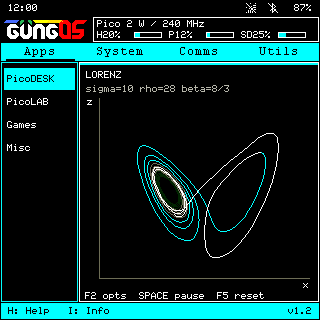
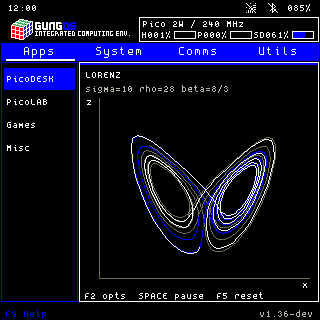
Refresh the Lorenz desktop preview and introduce picosolve

diff --git a/tools/capture-desktop-preview.py b/tools/capture-desktop-preview.py
@@ -1,0 +1,65 @@
+#!/usr/bin/env python3
+"""Capture the current desktop/Lorenz framebuffer using an isolated simulator SD."""
+import argparse
+from pathlib import Path
+import subprocess
+import tempfile
+from PIL import Image
+
+ROOT = Path(__file__).resolve().parents[1]
+CAPTURE = '''import os,sys
+root=os.getcwd()
+for path in ('src/MicroPython','simulator/hardware','builds/MicroPython/apps_unfrozen'):
+    sys.path.insert(0,root+'/'+path)
+import sim_runtime
+folder=sys.argv[1]
+sim_runtime.configure(root,folder+'/sd',root+'/builds/MicroPython/apps_unfrozen',1,
+                      'picocalc-pico2w',0,True,False,False,False,'',
+                      _network_mode='offline',_audio_mode='silent',_sd_profile='clean')
+from picoware.system.view_manager import ViewManager
+from picoware.system.settings import Settings
+from picoware.applications import desktop
+from picoware.system.buttons import BUTTON_NONE
+import picoware_southbridge as power
+class Clock:
+    def datetime(self):return (2026,11,6,4,12,0,0,0)
+    def deinit(self):pass
+vm=ViewManager();vm._wifi=None
+vm.time._rtc=Clock();vm.time._is_set=True
+power.set_battery_percentage(85);power.set_battery_charging(False)
+# These are normal Lorenz options; omit host timing statistics in a still image.
+assert Settings(vm.storage).update({'screensaver':'Lorenz',
+    'lorenz':{'detail':3,'points':1536,'fps':8,'stats':False}})
+assert desktop.start(vm)
+home=desktop._dashboard
+home.widget.load('Lorenz');assert home.widget.module,home.widget.error
+for _ in range(int(sys.argv[2])):
+    home.widget.next_frame=0;home.widget.module._next=0
+    vm._button=BUTTON_NONE;home.update()
+assert home.widget.module._count==1536
+home.status_bar.sample(force=True);home.draw()
+assert sim_runtime.lcd_screenshot(folder+'/desktop.bmp')
+desktop.stop(vm)
+'''
+
+
+def main():
+    parser = argparse.ArgumentParser(description=__doc__)
+    parser.add_argument('--micropython', type=Path, default=ROOT / 'builds/MicroPython/desktop/micropython')
+    parser.add_argument('--output', type=Path, default=ROOT / 'assets/screenshots/desktop.png')
+    parser.add_argument('--frames', type=int, default=160)
+    args = parser.parse_args()
+    if args.frames < 96:
+        parser.error('Use at least 96 frames to fill the configured Lorenz trail')
+    with tempfile.TemporaryDirectory(prefix='gungos-desktop-preview-') as folder:
+        subprocess.run([str(args.micropython.resolve()), '-X', 'heapsize=16M', '-c', CAPTURE,
+                        folder, str(args.frames)], cwd=ROOT, check=True)
+        args.output.parent.mkdir(parents=True, exist_ok=True)
+        with Image.open(Path(folder) / 'desktop.bmp') as capture:
+            assert capture.size == (320, 320), 'Unexpected native display size'
+            capture.save(args.output)
+    print('Saved current desktop with Lorenz: ' + str(args.output))
+
+
+if __name__ == '__main__':
+    main()

diff --git a/guides/PicoSolve.md b/guides/PicoSolve.md
@@ -1,0 +1,84 @@
+# picosolve
+
+picosolve is GungOS's built-in C module for structural solving, circuit analysis,
+repeated formula evaluation and plot geometry. The applications provide Python
+editors and displays; picosolve performs the selected numerical work underneath.
+It is included in the custom firmware and host simulator as `import picosolve`.
+
+## Where it is used
+
+| Application | picosolve's role |
+|---|---|
+| BeamView | Euler–Bernoulli beams and 2D plane frames: displacements, support reactions, member forces and diagrams |
+| PicoSpice | Circuit operating points, DC sweeps and transient traces using modified nodal analysis |
+| Graph, Graph3D and Grapher | Supported expression evaluation, implicit contours and surface/isosurface geometry |
+| Scientific calculator | Supported real expressions used in integration and equation solving; the Python numerical routines manage the overall calculation |
+
+ulab provides separate array/numerical operations, while the native gfx module
+handles drawing. Individual engineering apps may also use their own Python
+models; picosolve is not the backend for every PicoLAB calculation.
+
+## A small beam example
+
+Run this in the GungOS device REPL or its custom desktop MicroPython interpreter.
+It models a 2 m simply supported beam under a uniform downward load of 1,000 N/m.
+The structural API uses SI units: m, N, N·m, Pa and m⁴. Indices start at zero.
+
+```python
+import picosolve as ps
+
+b = ps.Beam(nodes=2, elements=1, sections=1, loads=1, cases=1)
+try:
+    b.section(0, 210e9, 8.333e-6)  # E [Pa], I [m^4]
+    b.node(0, 0.0)
+    b.node(1, 2.0)
+    b.element(0, 0, 1)            # element 0 joins nodes 0 and 1
+    b.line(0, 0, 0.0, 2.0, -1000.0)  # case, element, start/end, N/m
+    b.support(0, ps.UY)           # restrain vertical movement
+    b.support(1, ps.UY)           # rotations remain free
+    b.solve()
+    print(b.reaction(0))          # (1000.0, 0.0): force [N], moment [N*m]
+    print(b.reaction(1))          # (1000.0, 0.0)
+    print(b.at(0, 1.0))           # shear, moment, slope, deflection at midspan
+    print(b.info())               # memory, precision and conditioning information
+finally:
+    b.free()
+```
+
+The midspan moment is approximately **500 N·m** and vertical deflection is
+**−0.119 mm** for this example. Positive vertical force points upward;
+the diagram moment convention is sagging positive. `ps.Frame` adds axial
+movement/force for members in the x–y plane.
+
+## Precision, memory and limits
+
+- GungOS Python inputs and returned floats are float32. The beam/frame solver
+  supports double factorization and single factorization with double-precision
+  refinement; `AUTO` chooses a mode and can retry in double when required.
+  `info()` reports the precision used. Formula evaluation uses float32 rules;
+  circuit calculations combine double arithmetic with float32 device-model
+  transcendental functions. Precision is not uniformly double throughout.
+- Model storage is sized before solving. The core solve uses caller-owned
+  memory blocks. Beam/frame solving exposes progress/cancellation and can run
+  on the second core; circuits can advance in cooperative time slices. See the
+  developer reference for the corresponding interfaces.
+- Beam/frame models use linear, small-deformation Euler–Bernoulli theory.
+  Shear-deformable beams, nonlinear structures and 3D frame analysis are outside
+  this implementation. PicoSpice has a bounded set of device models; AC analysis
+  is not implemented. Formula supports a restricted expression language, with
+  rejection/fallback for unsupported cases.
+- Host tests check analytical results, equilibrium, error handling and Python
+  parity. Model size, latency and available heap still require device checks;
+  a successfully solved model also depends on appropriate inputs and assumptions.
+
+## Source and further reading
+
+The [developer reference](../src/MicroPython/picosolve/README.md) covers the API,
+solver algorithms, supported circuit devices, precision selection and memory.
+Source lives under `src/MicroPython/picosolve/`, with MicroPython bindings in
+`mp/`, structural/circuit models in `fe/`, and numerical routines in `core/`.
+
+Run native checks with `sh src/MicroPython/picosolve/tests/run-tests.sh`, or
+use `python3 tools/check-source.py --build` for the complete source checks.
+See [BeamView](BeamLab.md), [PicoSpice](PicoSpice.md), [Grapher](Grapher.md) and
+the [scientific calculator](ScientificCalculator.md) for their user interfaces.

diff --git a/README.md b/README.md
@@ -5,9 +5,10 @@
 A handheld engineering computer for **PicoCalc with Raspberry Pi Pico 2 W**.
 By Cem Gungor, based on [Picoware by jblanked](https://github.com/jblanked/Picoware).
 
-![GungOS desktop in the simulator](assets/screenshots/desktop.png)
+![Current GungOS desktop with the Lorenz widget](assets/screenshots/desktop.png)
 
-*Simulator preview; status and resource figures are simulated.*
+*Current 1.36-dev desktop with the Lorenz widget, captured from the simulator.
+Status and resource figures are simulated.*
 
 ## Development status
 
@@ -33,6 +34,24 @@ changes and the [publication record](guides/PublicationReadiness.md) for validat
 This source profile targets PicoCalc with **Pico 2 W**. Other Picoware boards,
 its app store/OTA updater and several other upstream features are outside this
 profile; arbitrary upstream applications are not guaranteed compatible.
+
+## picosolve: the numerical engine
+
+picosolve is the C module built into GungOS for selected engineering and plotting
+calculations. Python applications describe a model or expression, call the native
+module, and present its results.
+
+| Used by | What it supplies |
+|---|---|
+| BeamView | Beam and 2D frame solutions, reactions, forces and deflection diagrams |
+| PicoSpice | Circuit operating points, DC sweeps and transient analysis |
+| Grapher / Graph / Graph3D | Supported formula evaluation, contours and surface geometry |
+| Scientific calculator | Supported real expression evaluation inside integration and equation solving |
+
+The structural solver sizes memory before solving and supports progress,
+cancellation and precision selection. The [brief picosolve guide](guides/PicoSolve.md)
+includes an example, units and current limits; the
+[developer reference](src/MicroPython/picosolve/README.md) describes the API and algorithms.
 
 ## Build and install
 
@@ -74,6 +93,9 @@ workflow uses the same entry point as local validation:
 python3 tools/check-source.py --build
 ```
 
+To refresh the Lorenz desktop image after building the simulator, run
+`python3 tools/capture-desktop-preview.py`. It uses a separate temporary SD tree.
+
 Host checks do not establish physical-device speed, available heap or keyboard behavior.
 
 ## Controls and guides
@@ -82,7 +104,7 @@ Escape closes the innermost help/edit/view. Back and Del erase before the cursor
 F6–F10 use Shift+F1–F5 on PicoCalc. Alt+S saves a screenshot.
 
 [Desktop](guides/Desktop.md) · [Controls](guides/Keys.md) · [Themes](guides/Themes.md) ·
-[PicoLAB](guides/PicoLAB.md) · [Calculator](guides/ScientificCalculator.md) ·
+[PicoLAB](guides/PicoLAB.md) · [picosolve](guides/PicoSolve.md) · [Calculator](guides/ScientificCalculator.md) ·
 [Grapher](guides/Grapher.md) · [PicoCAD](guides/PicoCAD.md) ·
 [PicoDESK](guides/DesktopApps.md) · [Eggcel](guides/Eggcel.md) ·
 [PicoReader](guides/PicoReader.md) · [PicoDict](guides/PicoDict.md) ·

diff --git a/src/MicroPython/picosolve/README.md b/src/MicroPython/picosolve/README.md
@@ -1,8 +1,12 @@
 # picosolve
 
-picosolve is the small built-in solver kernel behind the picoLAB engineering
-suites. Python describes a model and reads back results. All the arithmetic
-in between runs here, in C and in double precision.
+picosolve is the built-in C solver module used by selected PicoLAB tools.
+Python describes a model or expression and reads back the results. It provides
+beam/frame solving, circuit analysis, formula evaluation and plot geometry.
+Precision depends on the component; see [Precision](#precision) and [Circuits](#circuits).
+
+Start with the [brief picosolve guide](../../../guides/PicoSolve.md) for an
+overview and a runnable beam example. This page is the detailed developer reference.
 
 It is a solver, not a matrix library. Models go in and results come out:
 displacements, reactions, end forces and the internal-force and deflection
@@ -16,7 +20,7 @@ curves. Stiffness matrices are never exposed.
 | First suite | Structural, starting with beams. |
 | Beam theory | Euler–Bernoulli. Timoshenko may follow. |
 | Units | SI everywhere: m, N, N·m, Pa, m⁴, N/m. The kernel does no unit conversion. |
-| Precision | Python inputs are float32 (MicroPython's float), which is ample for material and geometry data, and the model stores them as float32. Everything derived from them is double: lengths, EI, element matrices, assembly, factorization, displacements, reactions, end forces and diagrams. |
+| Precision | Structural inputs are float32. Derived element calculations, residuals and stored displacements use double; factorization can use double or single with refinement, as described below. Results returned as MicroPython floats are float32. Formula and circuit precision are described in their own sections. |
 | Size limits | Not fixed. Before allocating, `prepare` reports the memory this model needs, so the hardware decides. |
 
 ## Layout
